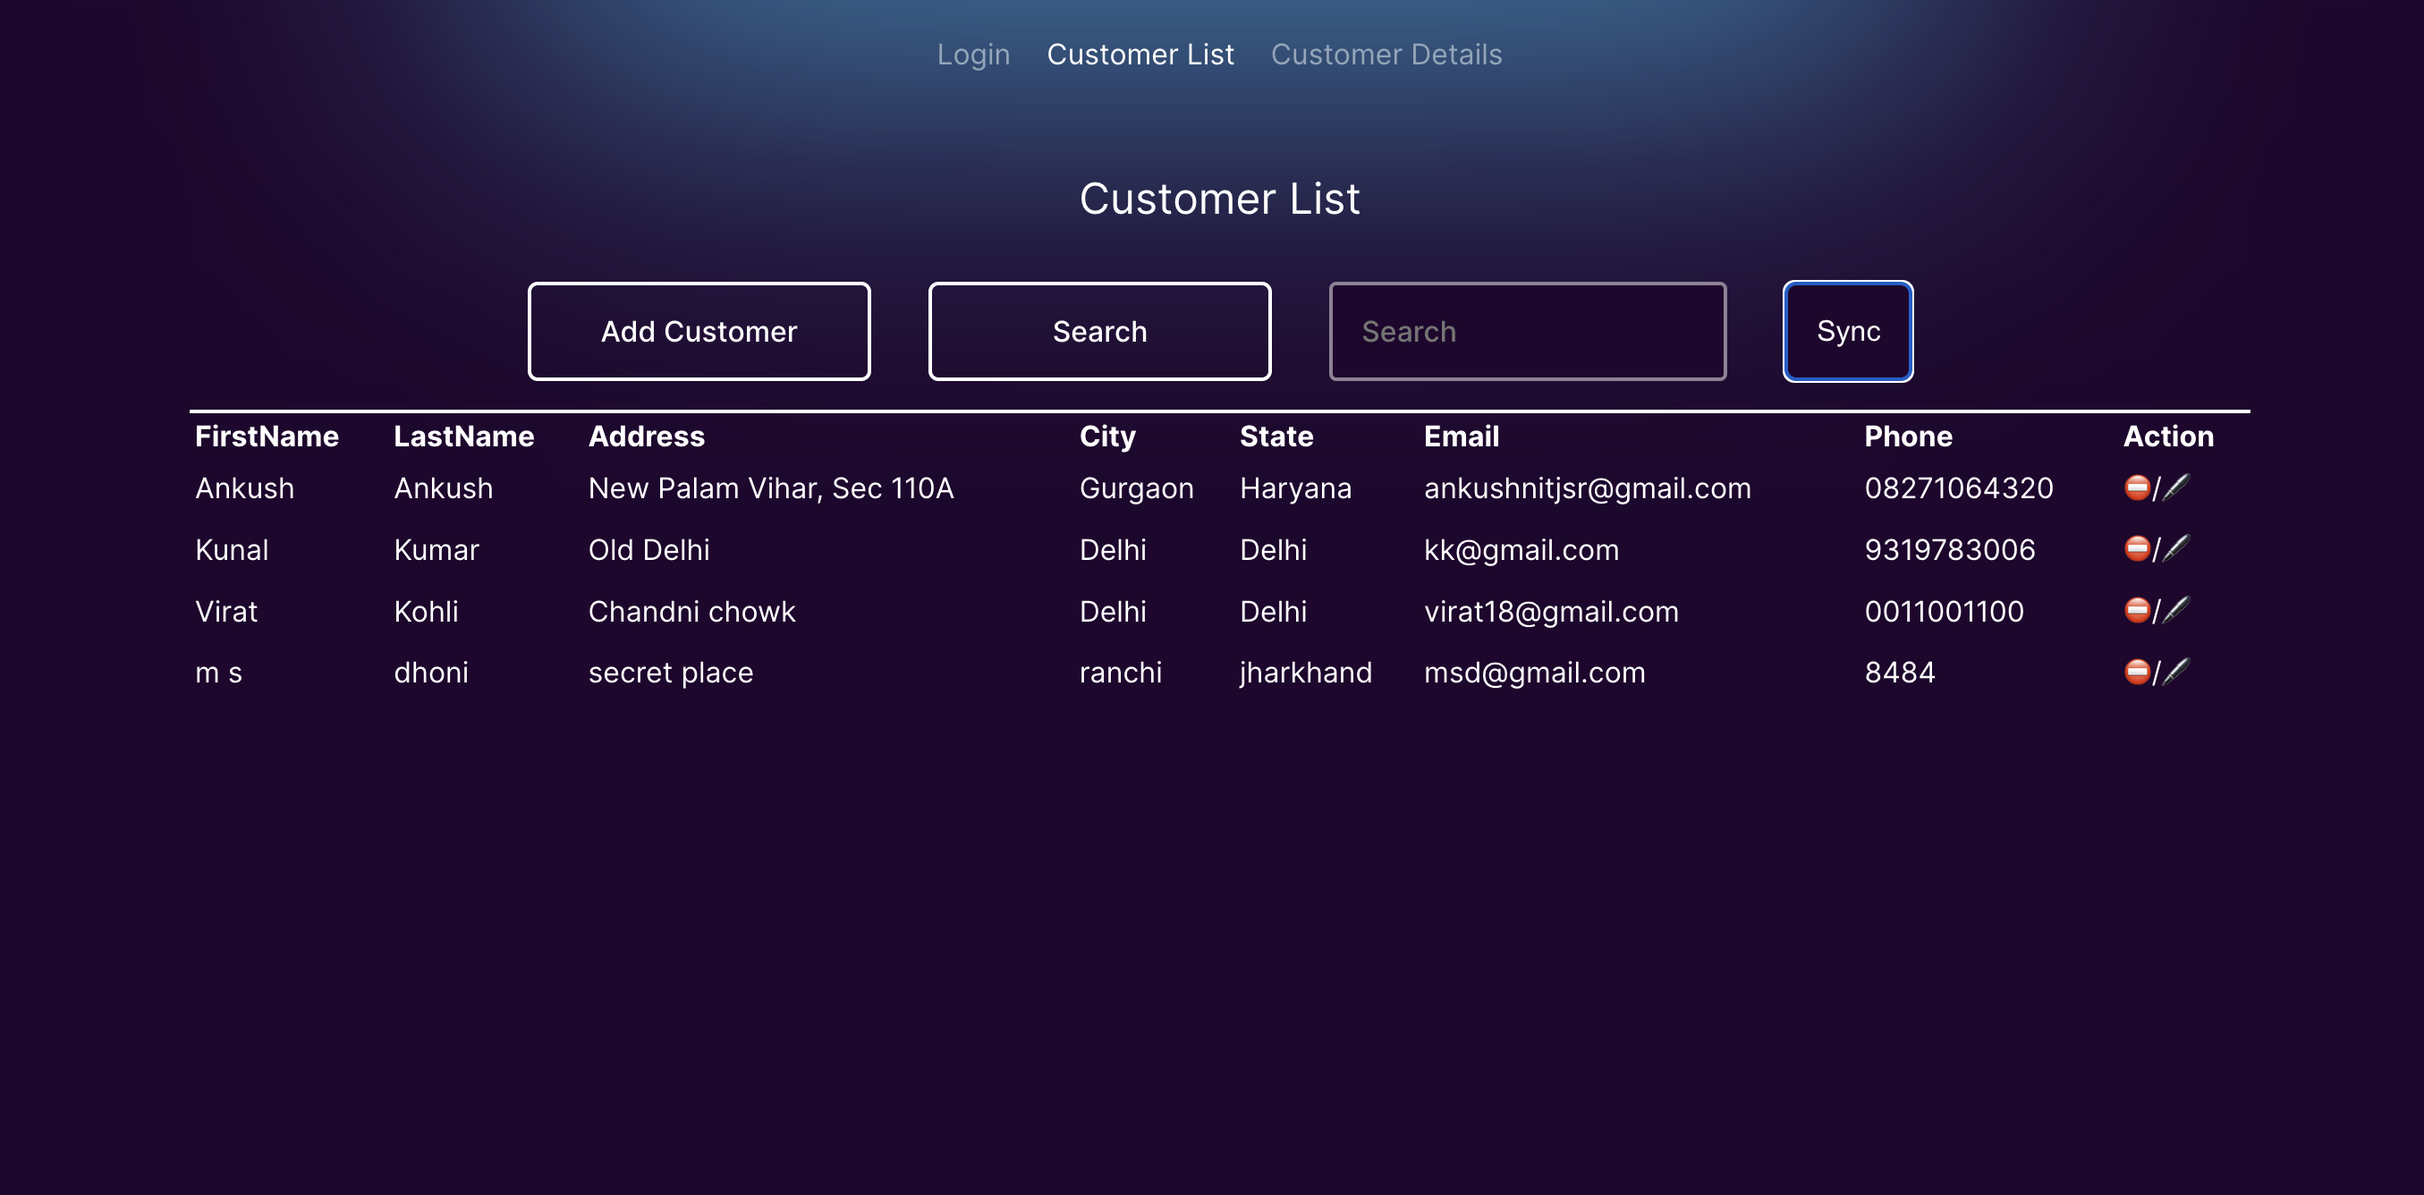
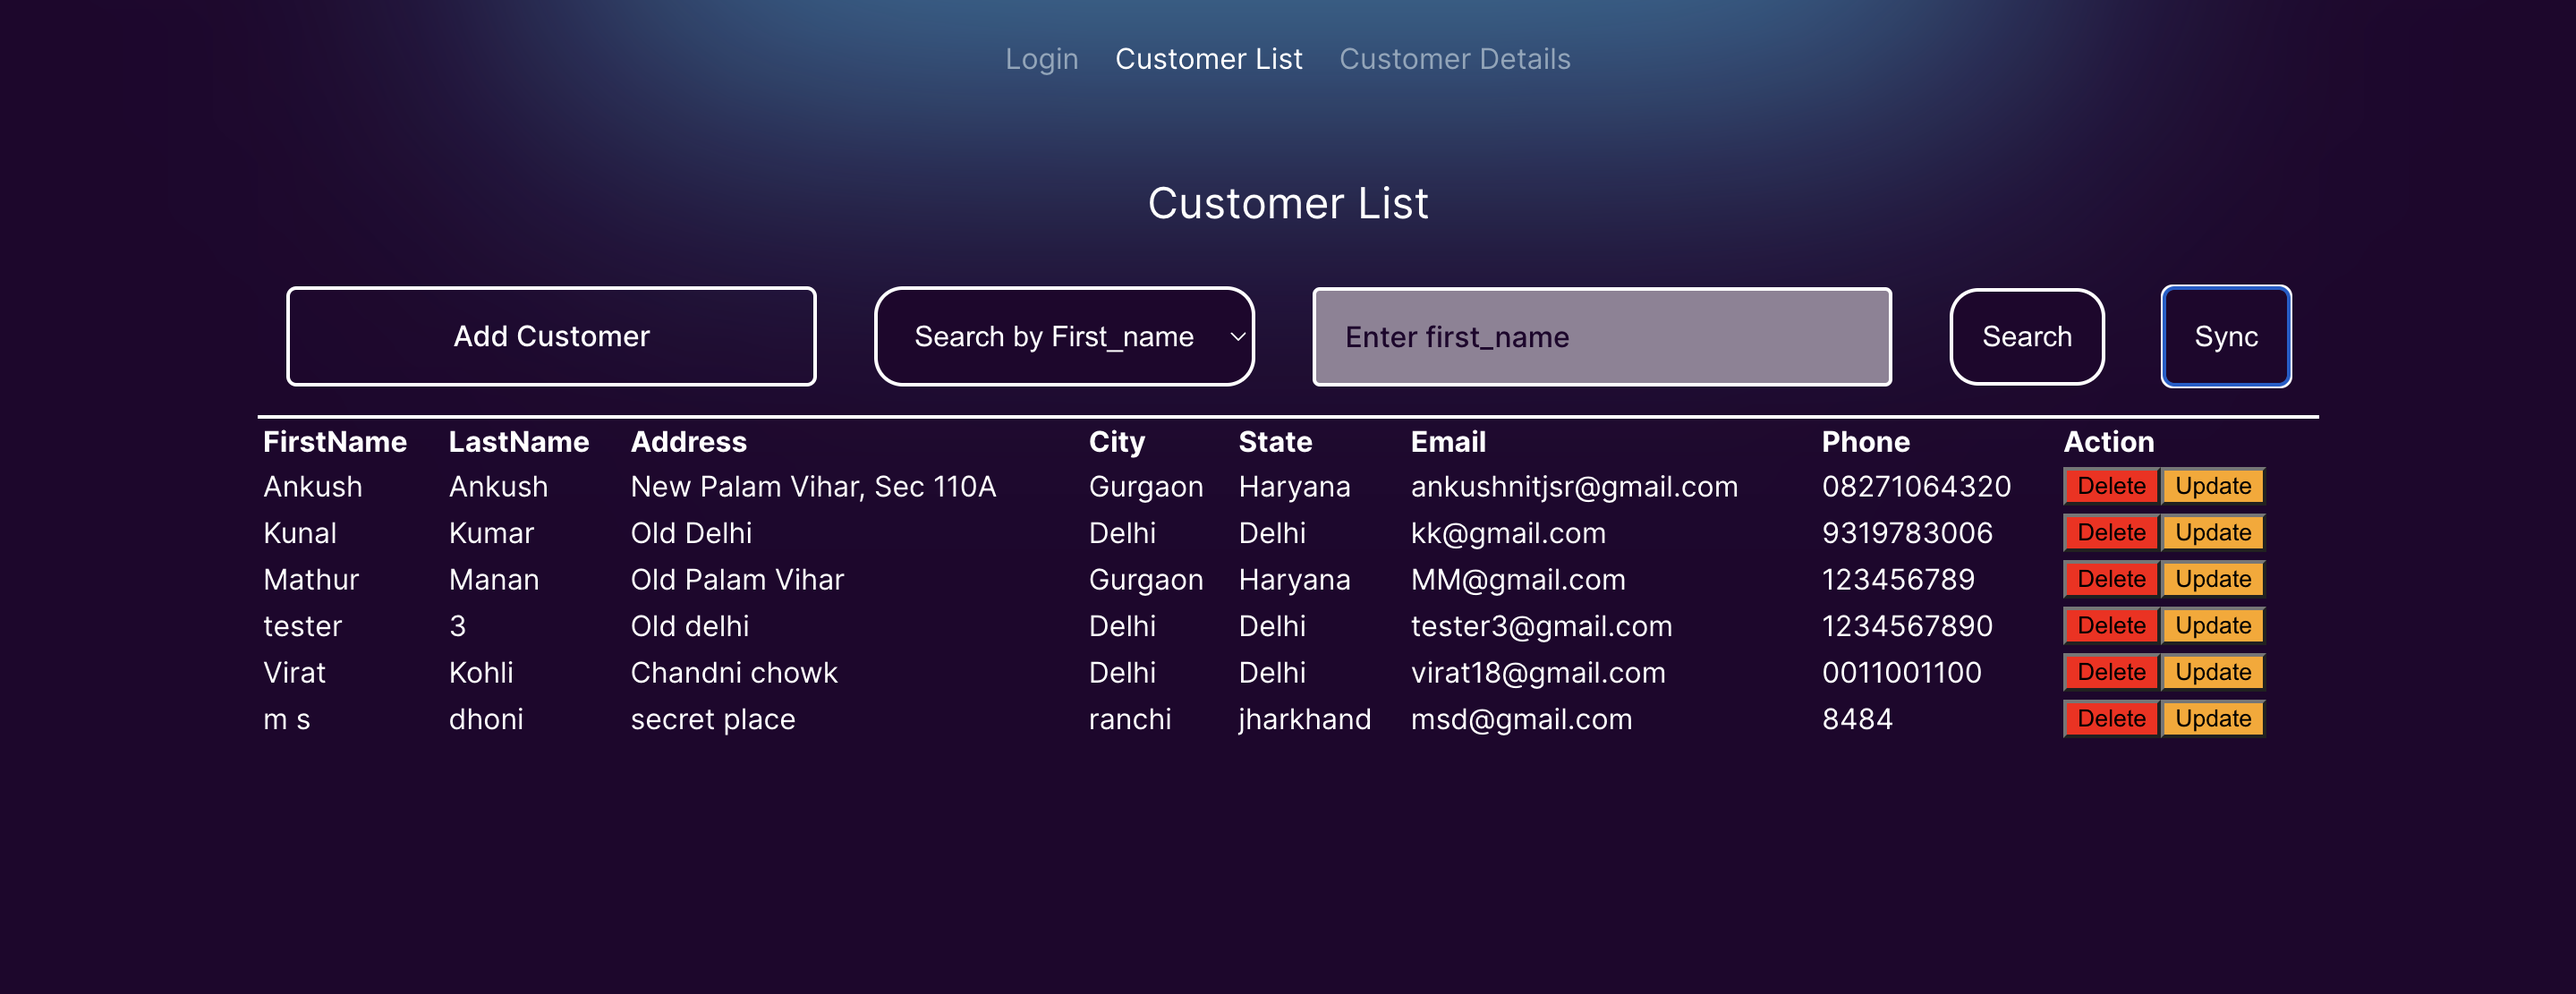
Modify README file and Delete & Update functions

diff --git a/src/components/Common/Table/index.js b/src/components/Common/Table/index.js
@@ -53,36 +53,6 @@ function Table({ data, handleDeletedCustomerData, handleUpdatedCustomerData }) {
         </thead>
         {
           <tbody>
-            {/* {data.map((val, key) => {
-              // console.log(key);// key is 0,1,2,3,,4,5
-              return (
-                <tr key={key} id={key}>
-                  <td>{val.first_name}</td>
-                  <td>{val.last_name}</td>
-                  <td>{val.address}</td>
-                  <td>{val.city}</td>
-                  <td>{val.state}</td>
-                  <td>{val.email}</td>
-                  <td>{val.phone}</td>
-                  <td>
-                    {
-                      <div className="action-field">
-                        <Button
-                          id={key}
-                          onClick={handleDelete(key)}
-                          text={"⛔"}
-                        />
-                        <Button
-                          id={key}
-                          onClick={handleUpdate(key)}
-                          text={"🖊"}
-                        />
-                      </div>
-                    }
-                  </td>
-                </tr>
-              );
-            })} */}
             {data.map((rowValue, id) => (
               <TableRow
                 key={id}

diff --git a/src/index.css b/src/index.css
@@ -45,7 +45,7 @@ input {
 
 .command-line {
   display: flex;
-  width: 70%;
+  width: 100%;
 }
 
 .custom-input {
@@ -125,7 +125,7 @@ form > div > input {
   border-radius: 0.35rem;
   padding: 1rem;
   cursor: pointer;
-  width: 10vw;
+  /* width: 10vw; */
   margin: 1rem;
   font-size: 1rem;
   font-weight: 500;
@@ -148,4 +148,15 @@ form > div > input {
   width: 20vw;
   font-weight: 500;
   margin: 1rem;
+}
+
+@media (max-width: 1200px) {
+  .command-line {
+    display: flex;
+    flex-direction: column;
+    align-items: center;
+  }
+  .sync-btn {
+    font-size: 0.75rem;
+  }
 }

diff --git a/src/components/TableRow/index.js b/src/components/TableRow/index.js
@@ -17,8 +17,12 @@ function TableRow({ rowData, onDelete, onUpdate }) {
       <td>{rowData.email}</td>
       <td>{rowData.phone}</td>
       <td>
-        <button onClick={handleDelete}>Delete</button>
-        <button onClick={handleUpdate}>Update</button>
+        <button style={{ backgroundColor: "red" }} onClick={handleDelete}>
+          Delete
+        </button>
+        <button style={{ backgroundColor: "orange" }} onClick={handleUpdate}>
+          Update
+        </button>
       </td>
     </tr>
   );

diff --git a/src/components/Search/styles.css b/src/components/Search/styles.css
@@ -39,3 +39,24 @@
 .search-input::placeholder {
   color: var(--theme);
 }
+
+@media (max-width: 1200px) {
+  .searchSection {
+    display: flex;
+    flex-direction: column;
+    justify-content: center;
+    align-items: center;
+    margin: 0 auto;
+  }
+  .searchSelect-btn,
+  .search-btn {
+    font-size: 0.75rem;
+  }
+}
+
+/* @media (max-width: 999px) {
+  .searchSelect-btn,
+  .search-btn {
+    font-size: 0.5rem;
+  }
+} */

diff --git a/src/components/Common/Button/styles.css b/src/components/Common/Button/styles.css
@@ -15,3 +15,17 @@
   color: var(--theme);
   transition: all 0.2s;
 }
+
+@media (max-width: 1200px) {
+  .custom-btn {
+    text-align: center;
+    border: 1px solid var(--white);
+    border-radius: 0.35rem;
+    padding: 1rem;
+    cursor: pointer;
+    width: 70vw;
+    margin: 1rem;
+    font-size: 0.75rem;
+    font-weight: 300;
+  }
+}

diff --git a/src/components/Common/Input/styles.css b/src/components/Common/Input/styles.css
@@ -22,3 +22,9 @@
 .active {
   border-color: var(--white);
 }
+
+@media (max-width: 1200px) {
+  .custom-input {
+    font-size: 0.75rem;
+  }
+}

diff --git a/README.md b/README.md
@@ -69,6 +69,9 @@ The Customer Relationship Manager is a web application developed with ReactJS fo
 - **Customer Details Display Screen:**
   ![Customer Details Display Screen](./src/images/customer_display_screen.png)
 
+- **Search by sepcific term Screen:**
+  ![Customer searchBy function Screen](./src/images/search_selectFunc.png)
+
 - **Customer Details Input Screen:**
   ![Customer Details Input Screen](./src/images/customer_input_screen.png)
 
